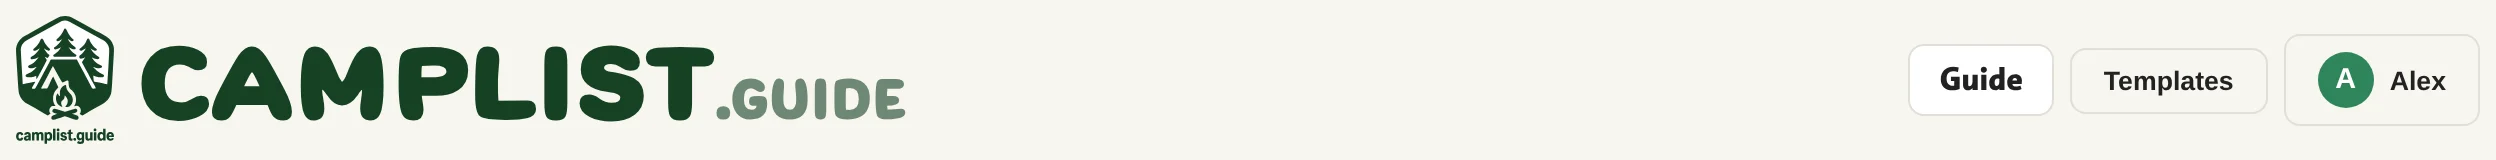
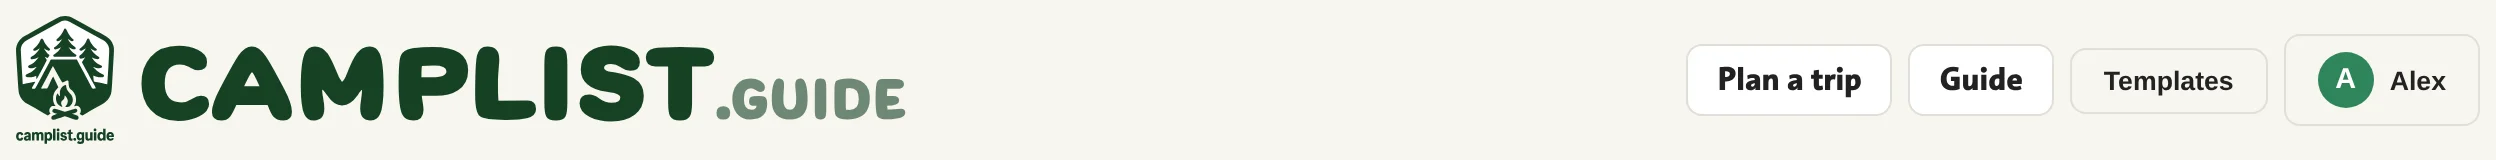
Add the trip wizard to the picture guide and refresh the screenshots
A new step in "Lists and templates" shows the wizard's first question with its typed-place
reading; the header and empty-state pictures now show the "Plan a trip" link. Handoff test
counts updated (74 unit tests, 54 journeys).

Claude-Session: https://claude.ai/code/session_01VDfabWfqhLaEzRN73qjsJZ

Changed region(s): [[0.6875, 0.4062, 0.75, 0.5625], [0.6875, 0.2812, 0.75, 0.3125]]

diff --git a/public/guide/index.html b/public/guide/index.html
@@ -168,8 +168,8 @@
         <article class="step" id="empty-list">
           <h3><span class="step-no">12</span>Empty list? Start from a template</h3>
           <figure class="shot">
-            <img src="./img/en/empty-list.webp" width="1648" height="316" alt="" loading="lazy" decoding="async" />
-            <span class="hl" style="left:41%;top:50.6%;width:18%;height:20.9%"></span><span class="num" style="left:41%;top:50.6%">1</span>
+            <img src="./img/en/empty-list.webp" width="1648" height="332" alt="" loading="lazy" decoding="async" />
+            <span class="hl" style="left:3.5%;top:53%;width:18%;height:19.9%"></span><span class="num" style="left:3.5%;top:53%">1</span>
           </figure>
           <ol class="legend"><li><span class="num">1</span><span>Browse templates</span></li></ol>
           
@@ -185,13 +185,23 @@
           
           <p class="step-link"><a href="templates.html">Template guide <svg class="ico inline" aria-hidden="true"><use href="#i-arrow"/></svg></a></p>
         </article>
+        <article class="step" id="plan">
+          <h3><span class="step-no">14</span>Or let the trip wizard build it</h3>
+          <figure class="shot">
+            <img src="./img/en/plan-where.webp" width="1648" height="1182" alt="" loading="lazy" decoding="async" />
+            <span class="hl" style="left:5%;top:32.7%;width:90%;height:7.4%"></span><span class="num" style="left:5%;top:32.7%">1</span><span class="hl" style="left:5%;top:43.5%;width:90%;height:9.6%"></span><span class="num" style="left:5%;top:43.5%">2</span><span class="hl" style="left:5%;top:60.6%;width:90%;height:23%"></span><span class="num" style="left:5%;top:60.6%">3</span><span class="hl" style="left:85.2%;top:87%;width:9.8%;height:7.4%"></span><span class="num" style="left:85.2%;top:87%">4</span>
+          </figure>
+          <ol class="legend"><li><span class="num">1</span><span>Type where you are going</span></li><li><span class="num">2</span><span>What we made of it</span></li><li><span class="num">3</span><span>Or tap a place</span></li><li><span class="num">4</span><span>Next question</span></li></ol>
+          <p class="hint">Seven questions. Type a place or tap one.</p>
+          <p class="step-link"><a href="../plan/">Plan a trip <svg class="ico inline" aria-hidden="true"><use href="#i-arrow"/></svg></a></p>
+        </article>
         </div>
       </section>
       <section class="group" id="save">
         <h2><svg class="ico" aria-hidden="true"><use href="#i-cloud"/></svg>Save and print</h2>
         <div class="steps">
         <article class="step narrow" id="sign-in">
-          <h3><span class="step-no">14</span>Sign in (optional)</h3>
+          <h3><span class="step-no">15</span>Sign in (optional)</h3>
           <figure class="shot">
             <img src="./img/en/sign-in.webp" width="1000" height="650" alt="" loading="lazy" decoding="async" />
             <span class="hl" style="left:6.6%;top:47.1%;width:86.8%;height:13.5%"></span><span class="num" style="left:6.6%;top:47.1%">1</span><span class="hl" style="left:76.1%;top:79.7%;width:17.3%;height:10.2%"></span><span class="num" style="left:76.1%;top:79.7%">2</span>
@@ -201,7 +211,7 @@
           
         </article>
         <article class="step narrow" id="storage-not-connected">
-          <h3><span class="step-no">15</span>Connect your Google Drive</h3>
+          <h3><span class="step-no">16</span>Connect your Google Drive</h3>
           <figure class="shot">
             <img src="./img/en/storage-not-connected.webp" width="848" height="574" alt="" loading="lazy" decoding="async" />
             <span class="hl" style="left:30.5%;top:51.1%;width:25.7%;height:6.1%"></span><span class="num" style="left:30.5%;top:51.1%">1</span><span class="hl" style="left:6.8%;top:73.2%;width:40.6%;height:10.8%"></span><span class="num" style="left:6.8%;top:73.2%">2</span>
@@ -211,7 +221,7 @@
           
         </article>
         <article class="step narrow" id="storage-connected">
-          <h3><span class="step-no">16</span>Saved in your Drive</h3>
+          <h3><span class="step-no">17</span>Saved in your Drive</h3>
           <figure class="shot">
             <img src="./img/en/storage-connected.webp" width="848" height="604" alt="" loading="lazy" decoding="async" />
             <span class="hl" style="left:30.5%;top:29.2%;width:19.6%;height:5.8%"></span><span class="num" style="left:30.5%;top:29.2%">1</span><span class="hl" style="left:6.8%;top:43.4%;width:86.3%;height:6%"></span><span class="num" style="left:6.8%;top:43.4%">2</span><span class="hl" style="left:6.8%;top:52%;width:22%;height:10.9%"></span><span class="num" style="left:6.8%;top:52%">3</span><span class="hl" style="left:30.8%;top:52%;width:47.5%;height:10.9%"></span><span class="num" style="left:30.8%;top:52%">4</span><span class="hl" style="left:6.8%;top:65.6%;width:24.1%;height:10.9%"></span><span class="num" style="left:6.8%;top:65.6%">5</span><span class="hl" style="left:32.8%;top:65.6%;width:45.4%;height:10.9%"></span><span class="num" style="left:32.8%;top:65.6%">6</span><span class="hl" style="left:6.8%;top:79.8%;width:3.1%;height:4.3%"></span><span class="num" style="left:6.8%;top:79.8%">7</span>
@@ -221,7 +231,7 @@
           
         </article>
         <article class="step narrow" id="controls">
-          <h3><span class="step-no">17</span>Print, export, import</h3>
+          <h3><span class="step-no">18</span>Print, export, import</h3>
           <figure class="shot">
             <img src="./img/en/controls.webp" width="848" height="360" alt="" loading="lazy" decoding="async" />
             <span class="hl" style="left:6.8%;top:42.8%;width:19.6%;height:18.3%"></span><span class="num" style="left:6.8%;top:42.8%">1</span><span class="hl" style="left:49.6%;top:42.8%;width:11.9%;height:18.3%"></span><span class="num" style="left:49.6%;top:42.8%">2</span><span class="hl" style="left:63.4%;top:42.8%;width:24.1%;height:18.3%"></span><span class="num" style="left:63.4%;top:42.8%">3</span><span class="hl" style="left:6.8%;top:65.6%;width:27.4%;height:18.3%"></span><span class="num" style="left:6.8%;top:65.6%">4</span><span class="hl" style="left:36.1%;top:65.6%;width:27.2%;height:18.3%"></span><span class="num" style="left:36.1%;top:65.6%">5</span><span class="hl" style="left:65.3%;top:65.6%;width:22%;height:18.3%"></span><span class="num" style="left:65.3%;top:65.6%">6</span>
@@ -231,7 +241,7 @@
           
         </article>
         <article class="step" id="print">
-          <h3><span class="step-no">18</span>Print layout</h3>
+          <h3><span class="step-no">19</span>Print layout</h3>
           <figure class="shot">
             <img src="./img/en/print.webp" width="2560" height="1520" alt="" loading="lazy" decoding="async" />
             
@@ -246,7 +256,7 @@
         <h2><svg class="ico" aria-hidden="true"><use href="#i-phone"/></svg>More</h2>
         <div class="steps">
         <article class="step" id="header-account">
-          <h3><span class="step-no">19</span>Your account</h3>
+          <h3><span class="step-no">20</span>Your account</h3>
           <figure class="shot">
             <img src="./img/en/header-account.webp" width="2496" height="160" alt="" loading="lazy" decoding="async" />
             <span class="hl" style="left:91.5%;top:21.3%;width:7.9%;height:57.5%"></span><span class="num" style="left:91.5%;top:21.3%">1</span>
@@ -256,7 +266,7 @@
           
         </article>
         <article class="step" id="dark-theme">
-          <h3><span class="step-no">20</span>Dark mode</h3>
+          <h3><span class="step-no">21</span>Dark mode</h3>
           <figure class="shot">
             <img src="./img/en/dark-theme.webp" width="2560" height="1240" alt="" loading="lazy" decoding="async" />
             <span class="hl" style="left:82.4%;top:100%;width:4%;height:0%"></span><span class="num" style="left:82.4%;top:100%">1</span>
@@ -266,10 +276,10 @@
           
         </article>
         <article class="step narrow" id="mobile">
-          <h3><span class="step-no">21</span>On your phone</h3>
+          <h3><span class="step-no">22</span>On your phone</h3>
           <figure class="shot">
             <img src="./img/en/mobile.webp" width="824" height="1830" alt="" loading="lazy" decoding="async" />
-            <span class="hl" style="left:37.3%;top:7.4%;width:24%;height:4.8%"></span><span class="num" style="left:37.3%;top:7.4%">1</span><span class="hl" style="left:11.9%;top:90.2%;width:4.9%;height:2.2%"></span><span class="num" style="left:11.9%;top:90.2%">2</span>
+            <span class="hl" style="left:50.9%;top:7.4%;width:24%;height:4.8%"></span><span class="num" style="left:50.9%;top:7.4%">1</span><span class="hl" style="left:11.9%;top:90.2%;width:4.9%;height:2.2%"></span><span class="num" style="left:11.9%;top:90.2%">2</span>
           </figure>
           <ol class="legend"><li><span class="num">1</span><span>Templates</span></li><li><span class="num">2</span><span>Tap to check</span></li></ol>
           

diff --git a/public/guide/templates.html b/public/guide/templates.html
@@ -84,8 +84,8 @@
         <article class="step" id="empty">
           <h3><span class="step-no">5</span>Or start from an empty list</h3>
           <figure class="shot">
-            <img src="./img/en/empty-list.webp" width="1648" height="316" alt="" loading="lazy" decoding="async" />
-            <span class="hl" style="left:41%;top:50.6%;width:18%;height:20.9%"></span><span class="num" style="left:41%;top:50.6%">1</span>
+            <img src="./img/en/empty-list.webp" width="1648" height="332" alt="" loading="lazy" decoding="async" />
+            <span class="hl" style="left:3.5%;top:53%;width:18%;height:19.9%"></span><span class="num" style="left:3.5%;top:53%">1</span>
           </figure>
           <ol class="legend"><li><span class="num">1</span><span>Browse templates</span></li></ol>
           

diff --git a/docs/HANDOFF.md b/docs/HANDOFF.md
@@ -21,19 +21,21 @@ Live: https://camplist.guide (Replit static deployment of `public/`).
 | Maps | Autocomplete never initialised (`initMap` race) | Loaded lazily when Trip Info opens; manual entry fallback |
 | Guides | None | Picture-first guides generated from the real app: `/guide/` (21 numbered steps), `/guide/templates.html` (how templates work + catalogue) and one page per template with a "Use this template" deep link; text in one locale file, screenshots re-taken by script (`docs/GUIDES.md`); `sitemap.xml` + `robots.txt` |
 | Trip wizard | None | `/plan/`: seven questions build a list from the templates with deterministic rules (base template, add-on sections, trip info); typed answers matched by keywords with TypeSafe-style confidence, optionally judged by TypeSafe's Jev through `server/index.mjs` (keeps the API key); one labelled placement (`docs/WIZARD.md`) |
-| Engineering | No package.json/tests in repo | ESLint, Prettier, Vitest (47 tests), Playwright (50 journeys), template validator, guide capture/builder, docs |
+| Engineering | No package.json/tests in repo | ESLint, Prettier, Vitest (74 tests), Playwright (54 journeys), template validator, guide capture/builder, docs |
 
 ## 2. What was tested
 
-* `npm run lint`, `npm run templates:validate` (23/23), `npm test` (47), `npm run test:e2e`
-  (50: sign-in/out, session expiry, cancelled sign-in, library blocked, wrong audience,
+* `npm run lint`, `npm run templates:validate` (23/23), `npm test` (74), `npm run test:e2e`
+  (54: sign-in/out, session expiry, cancelled sign-in, library blocked, wrong audience,
   providers-disabled flags, same-email account linking and its refusal, Drive
   connect/connecting state/failed connect/save/autosave/mid-upload edits/conflict/open/upload/
   revoked/disconnect/declined consent, templates, core flows, legal pages, mobile viewport,
   analytics tag with consent defaults, AdSense units with unfilled/blocked fallbacks and the
   no-slot pause guard, only configured sign-in providers offered, guide pages with their
   pictures, the template catalogue and a template page's deep link into the app, the two
-  placements on guide pages with their house-card fallback, sitemap and robots). The unit suite also checks that the generated guide pages match their inputs.
+  placements on guide pages with their house-card fallback, sitemap and robots, the trip
+  wizard's chip path into a created list, its typed path, the draft surviving a reload, the
+  judge endpoint and its fallback). The unit suite also checks that the generated guide pages match their inputs.
   Google Identity and Drive are mocked in these tests.
 * Headless Chromium against a local server with the **real** Google libraries: the Google button
   renders, Places autocomplete mounts and the CSP causes no violations.
